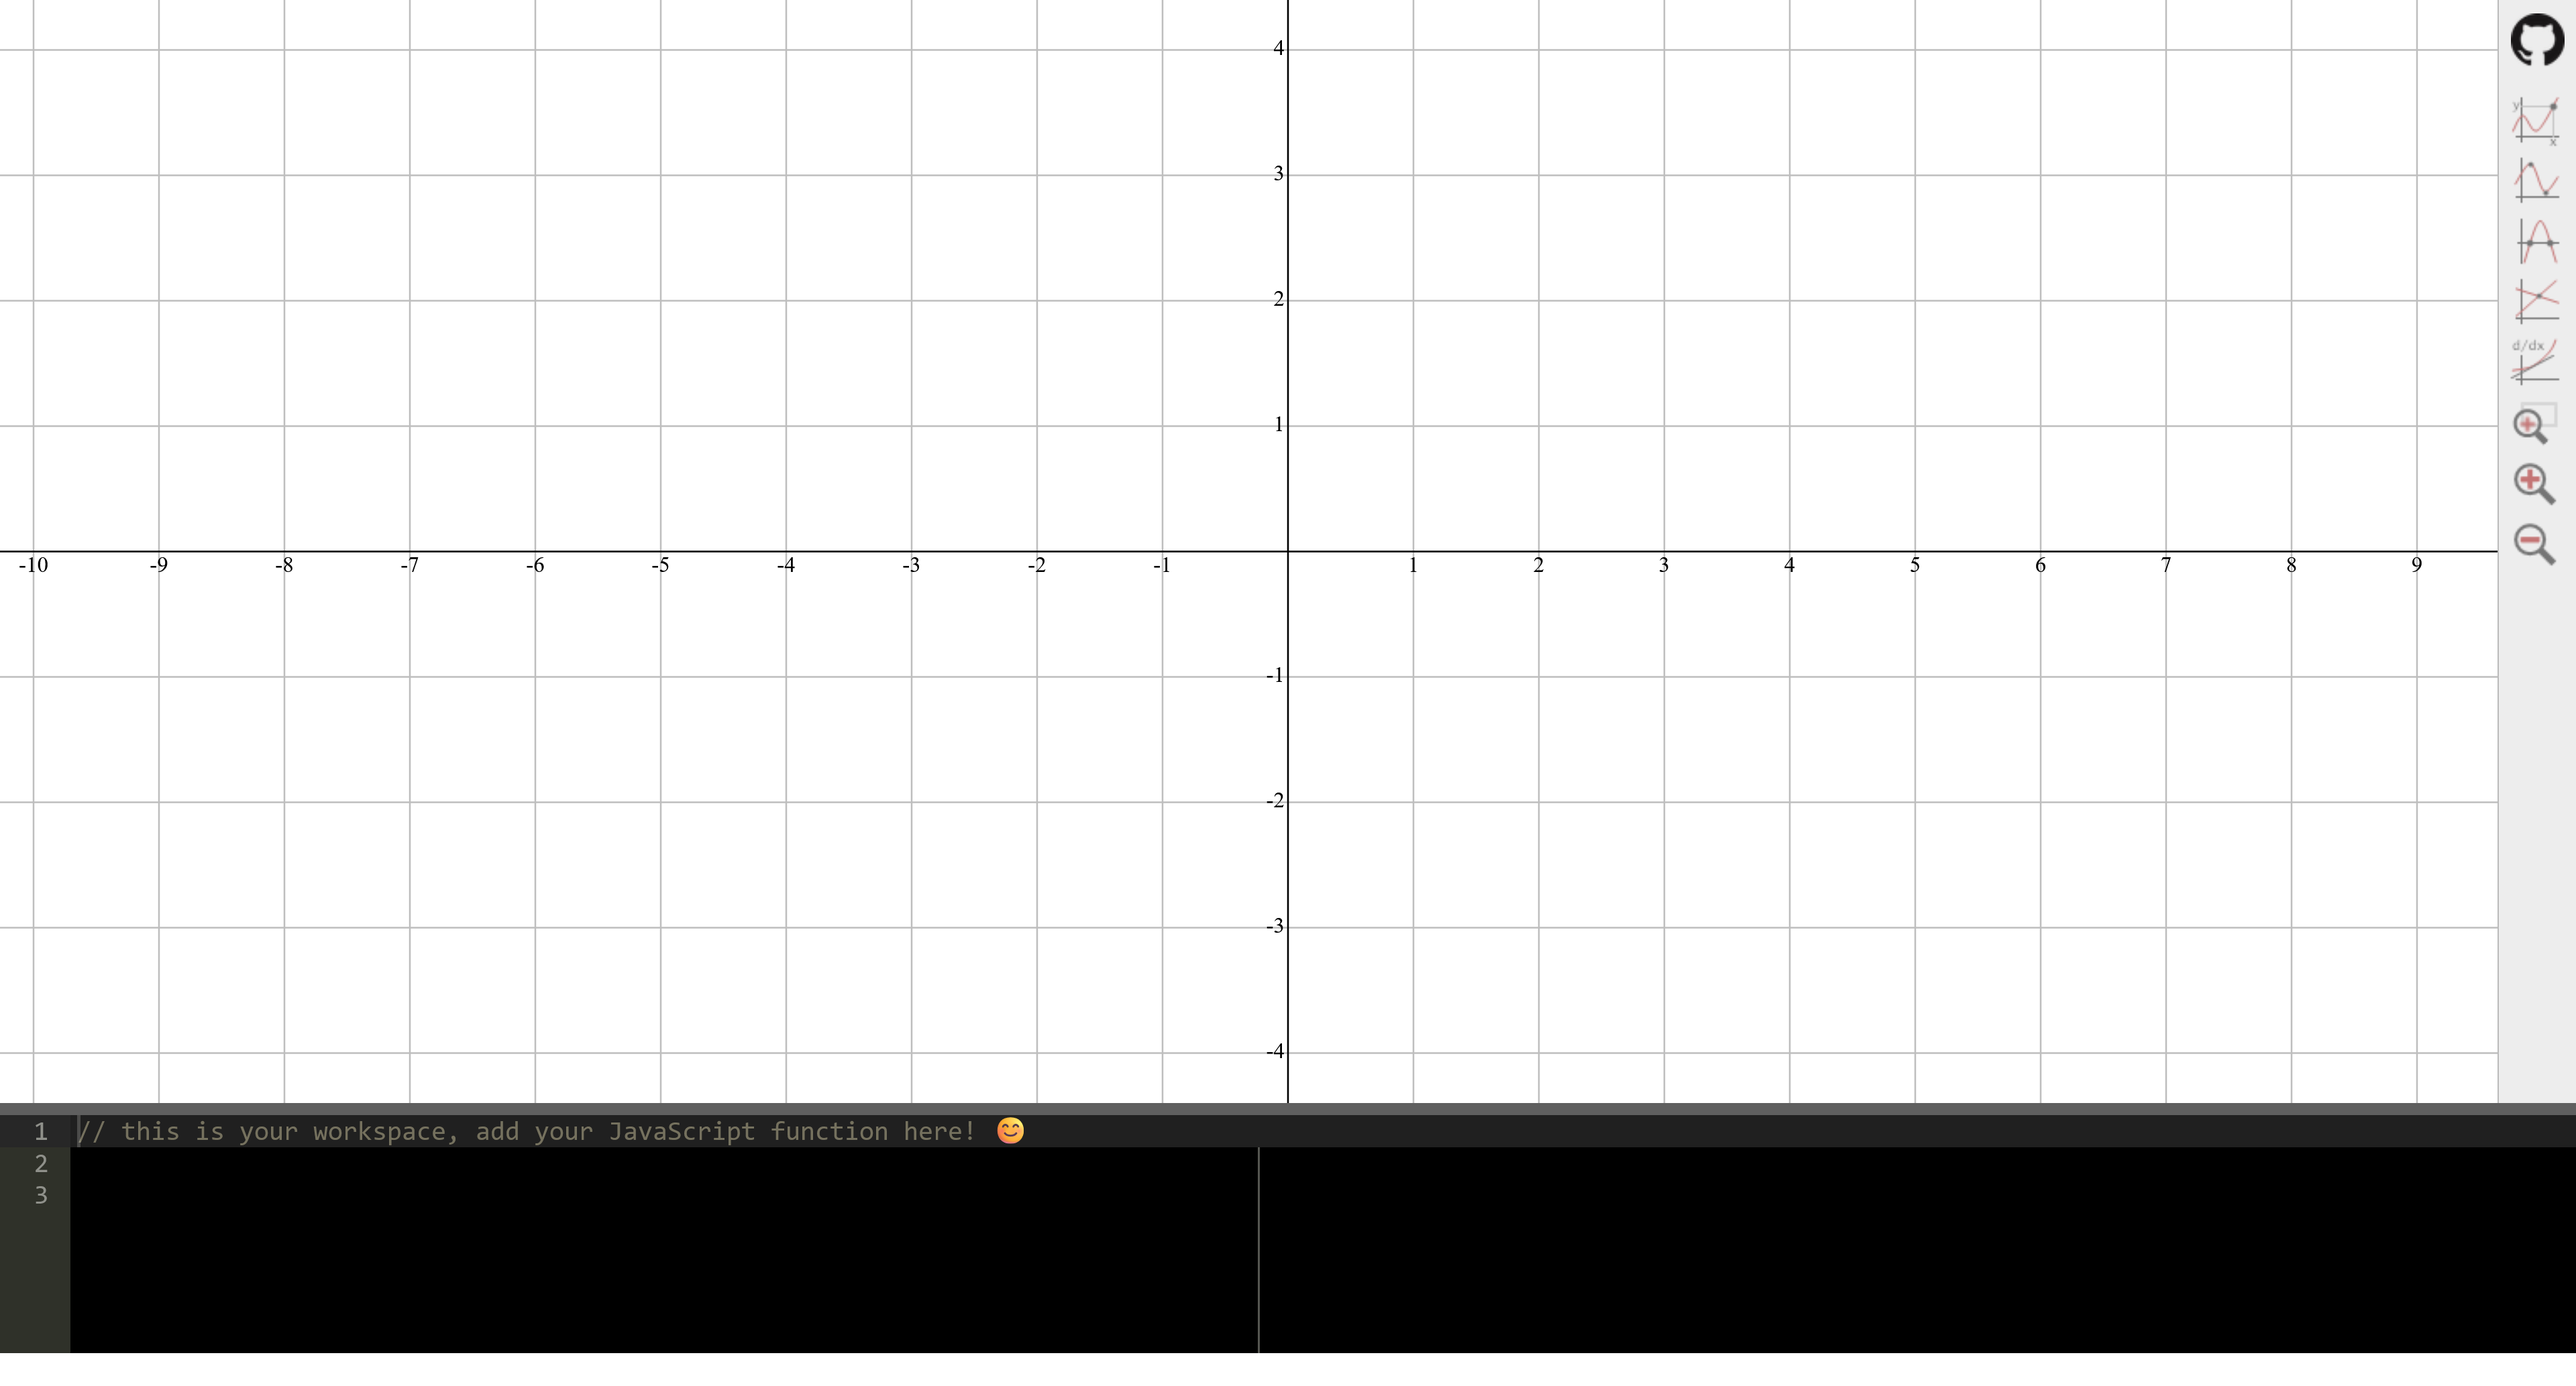
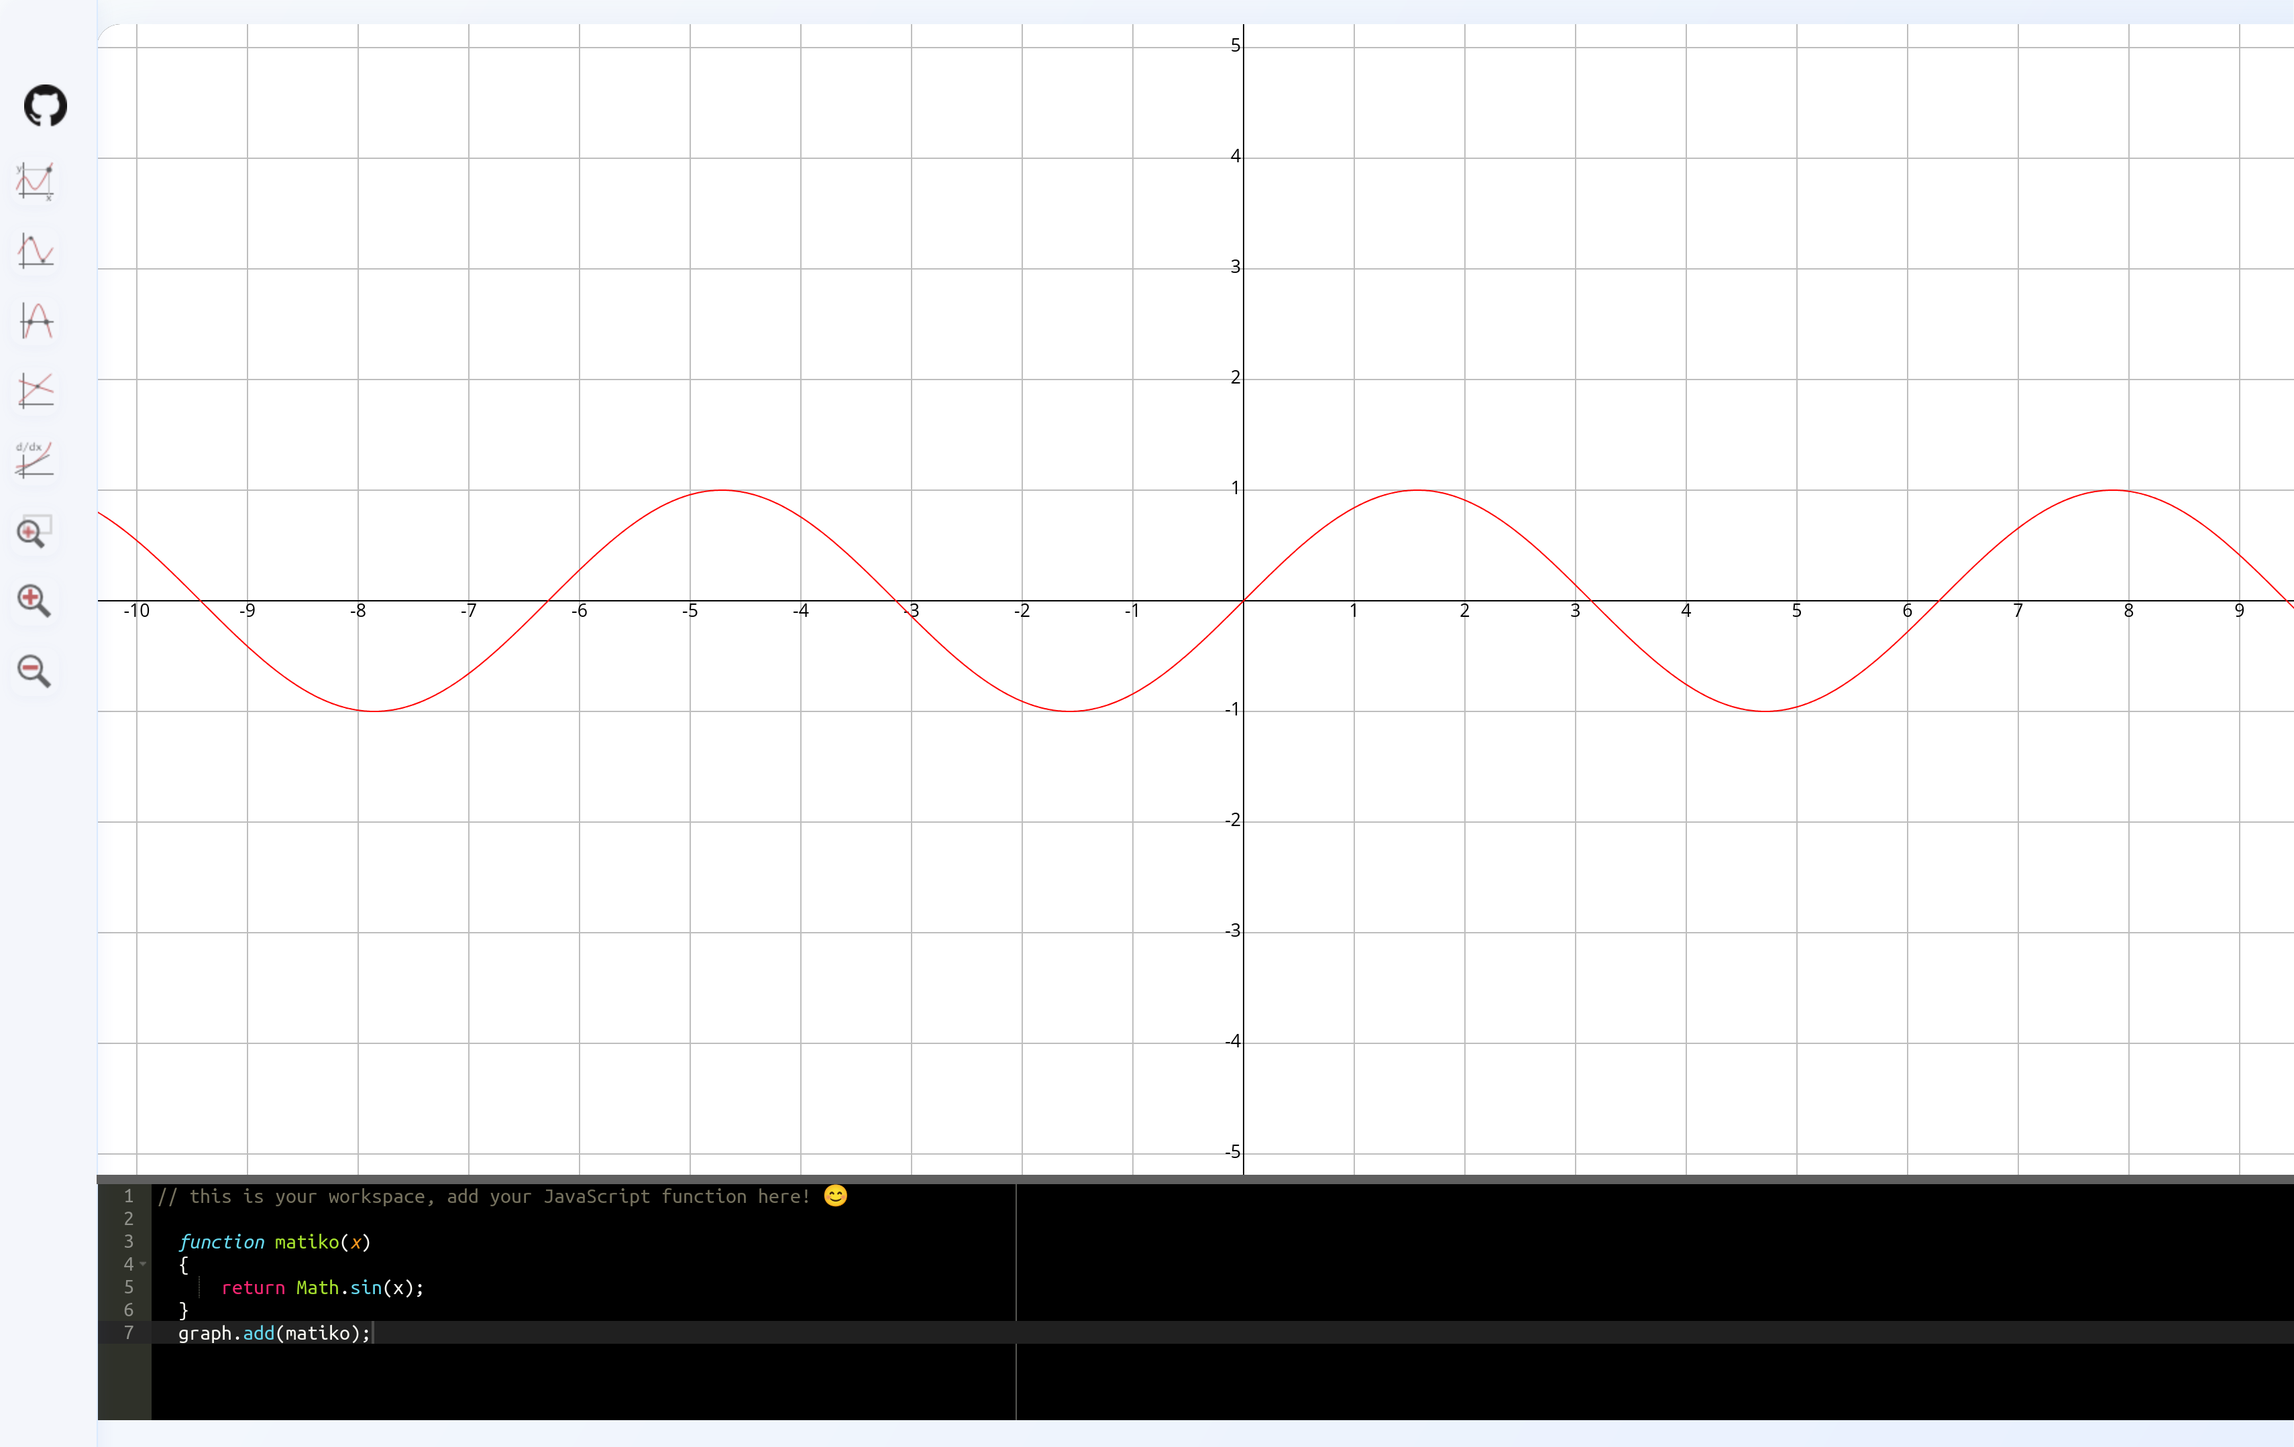
first-commit

diff --git a/graphy.css b/graphy.css
@@ -1,27 +1,117 @@
 
-body { font-family: "Open Sans", sans-serif; font-size: 9pt; overflow: hidden; margin: 0; }
+body {
+  font-family: 'Inter', 'Open Sans', Arial, 'Segoe UI', 'Liberation Sans', 'DejaVu Sans', 'Helvetica Neue', Helvetica, sans-serif;
+  font-size: 15px;
+  background: linear-gradient(120deg, #f8fafc 0%, #e8f0fe 100%);
+  color: #222;
+  overflow: hidden;
+  margin: 0;
+  line-height: 1.6;
+}
 
-#vsplitter { width: 100%; overflow: hidden;}
-#wrapper { width: 100%; overflow: hidden; background-color: #000;}
+
+#vsplitter {
+  width: 100%;
+  overflow: hidden;
+  margin-left: 72px; /* 56px toolbar + 16px gap */
+}
+
+#wrapper {
+  width: 100%;
+  overflow: hidden;
+  background: #fff;
+  border-radius: 18px;
+  box-shadow: 0 4px 32px rgba(80, 120, 200, 0.09);
+  margin: 18px auto;
+  padding-bottom: 16px;
+}
+
+
 #code { width: 100%; overflow: hidden; }
 #edit { width: 100%; overflow: hidden; background: #000; font-size: 1rem; font-size: 1rem;}
 #status { width: 100%; height: 20px; overflow: hidden; padding: 4px; font-size: 12px; }
 #status-info { float: right; padding-right: 8px; }
 .vsplitbar { background: #aaa; }
 
-#github { width: 36px; height: 36px; padding: 8px 3px; position: absolute; z-index: 10; right: 0; top: 0;}
+#github {
+  width: 36px;
+  height: 36px;
+  padding: 8px 3px;
+  position: static;
+  margin-bottom: 10px;
+}
 
-#toolbar { width: 36px; padding: 55px 5px 0px 5px; height: 100%; background: #EDEDED; border-left: 1px solid #BBB; position: absolute; z-index: 10; right: 0; top: 0;}
-#tool_select img { border: 1px solid transparent; opacity: 0.5; border-radius: 5px; }
-#tool_select img:hover { opacity: 1.0;}
-#tool_select a.toolbar_selected img { border: 1px solid #CCC; opacity: 1.0 !important; background: #FFF;
-  -webkit-box-shadow: inset 0px -900px 50px -900px rgba(150, 150, 150, 0.3), inset 0px 1px 0px 0px #FFF;
-  box-shadow: inset 0px -900px 40px -900px rgba(150, 150, 150, 0.3), inset 0px 1px 0px 0px #FFF;}
 
-.toolbox { width: 210px; background: #FFFFFF; border: 1px solid #999; position: absolute; right: 292px; top: 20px; z-index: 9; display: none;}
-.toolbox_header { font-weight: bold; background: #E8E8E8; padding: 3px;}
+#toolbar {
+  width: 56px;
+  padding: 55px 8px 0px 8px;
+  height: 100vh;
+  background: #f4f6fb;
+  border-right: 1px solid #dbeafe;
+  border-left: none;
+  position: fixed;
+  z-index: 10;
+  left: 0;
+  top: 0;
+  box-shadow: 2px 0 12px rgba(80, 120, 200, 0.07);
+  border-top-left-radius: 18px;
+  border-bottom-left-radius: 18px;
+  border-top-right-radius: 0;
+  border-bottom-right-radius: 0;
+  display: flex;
+  flex-direction: column;
+  align-items: center;
+}
+
+
+#tool_select img {
+  border: 2px solid transparent;
+  opacity: 0.6;
+  border-radius: 10px;
+  transition: box-shadow 0.2s, opacity 0.2s;
+  box-shadow: 0 2px 8px rgba(80,120,200,0.07);
+  margin-bottom: 10px;
+}
+
+#tool_select img:hover {
+  opacity: 1.0;
+  box-shadow: 0 4px 12px rgba(80,120,200,0.13);
+}
+#tool_select a.toolbar_selected img {
+  border: 2px solid #2563eb;
+  opacity: 1.0 !important;
+  background: #e0e7ff;
+  box-shadow: 0 2px 12px rgba(80,120,200,0.18);
+}
+
+
+.toolbox {
+  width: 250px;
+  background: #fff;
+  border: 1px solid #d1d5db;
+  position: absolute;
+  right: 292px;
+  top: 20px;
+  z-index: 9;
+  display: none;
+  border-radius: 12px;
+  box-shadow: 0 6px 24px rgba(80,120,200,0.10);
+}
+
+.toolbox_header {
+  font-weight: 600;
+  background: #f3f4f6;
+  padding: 8px 12px;
+  border-top-left-radius: 12px;
+  border-top-right-radius: 12px;
+  border-bottom: 1px solid #e5e7eb;
+}
+
 .toolbox_close { display: inline-block;}
-.toolbox_main { padding: 3px;}
+.toolbox_main {
+  padding: 12px;
+}
+
 
 #graph_wrapper { width: 100%; height: 100%; width: 100%; z-index: 2; margin-right: 250px; background-color: #000;}
 #graph_wrapper:hover { cursor: crosshair;}
@@ -38,31 +128,26 @@ a { text-decoration: none;}
 a:hover { text-decoration: underline;}
 
 .fancybutton {
-  -moz-box-shadow:inset 0px 1px 0px 0px #97c4fe;
-  -webkit-box-shadow:inset 0px 1px 0px 0px #97c4fe;
-  box-shadow:inset 0px 1px 0px 0px #97c4fe;
-  background:-webkit-gradient( linear, left top, left bottom, color-stop(0.05, #3d94f6), color-stop(1, #1e62d0) );
-  background:-moz-linear-gradient( center top, #3d94f6 5%, #1e62d0 100% );
-  filter:progid:DXImageTransform.Microsoft.gradient(startColorstr='#3d94f6', endColorstr='#1e62d0');
-  background-color:#3d94f6;
-  -moz-border-radius:6px;
-  -webkit-border-radius:6px;
-  border-radius:6px;
-  border:1px solid #337fed;
-  display:inline-block;
-  color:#ffffff;
-  font-family:'open sans', arial;
-  font-size:13px;
-  font-weight:bold;
-  padding:4px 12px;
-  text-decoration:none;
-  text-shadow:1px 1px 0px #1570cd;
-}.fancybutton:hover {
-  background:-webkit-gradient( linear, left top, left bottom, color-stop(0.05, #1e62d0), color-stop(1, #3d94f6) );
-  background:-moz-linear-gradient( center top, #1e62d0 5%, #3d94f6 100% );
-  filter:progid:DXImageTransform.Microsoft.gradient(startColorstr='#1e62d0', endColorstr='#3d94f6');
-  background-color:#1e62d0;
-}.fancybutton:active {
+  background: linear-gradient(90deg, #2563eb 0%, #60a5fa 100%);
+  border-radius: 8px;
+  border: none;
+  color: #fff;
+  font-family: 'Inter', 'Open Sans', Arial, sans-serif;
+  font-size: 15px;
+  font-weight: 600;
+  padding: 8px 20px;
+  text-decoration: none;
+  box-shadow: 0 2px 8px rgba(80,120,200,0.11);
+  transition: background 0.2s, box-shadow 0.2s, transform 0.1s;
+  cursor: pointer;
+}
+.fancybutton:hover {
+  background: linear-gradient(90deg, #60a5fa 0%, #2563eb 100%);
+  box-shadow: 0 4px 16px rgba(80,120,200,0.18);
+  transform: translateY(-2px) scale(1.03);
+}
+
+.fancybutton:active {
   position:relative;
   top:1px;
 }

diff --git a/index.html b/index.html
@@ -2,6 +2,7 @@
 <html>
 <head>
   <meta http-equiv="Content-Type" content="text/html; charset=utf-8">
+
   <!--Icon-->
   <link rel="shortcut icon" href="images/icon.jpeg" type="image/x-icon" />
 
